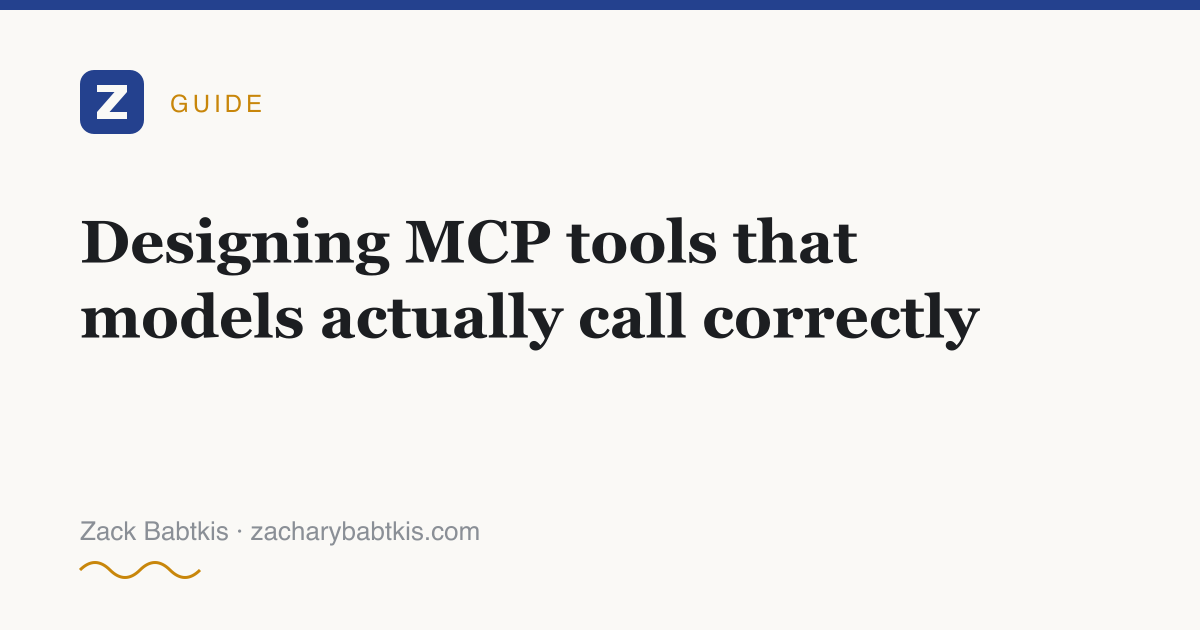
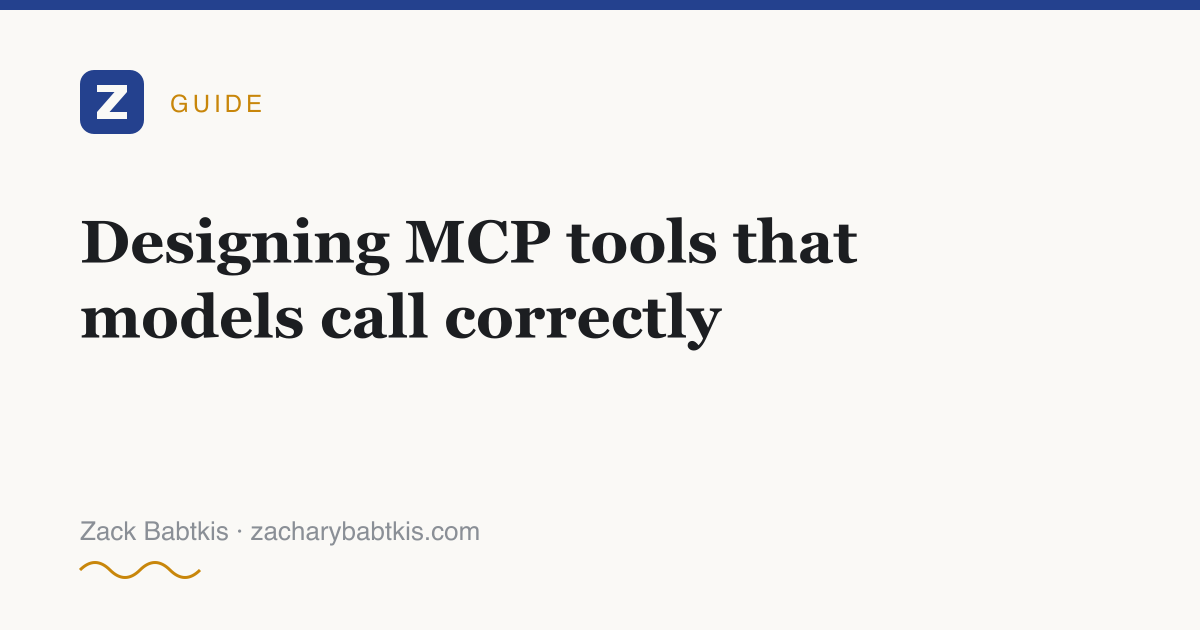
feat: mcp stateless migration guide + error-string seo pass on tier-1 articles

Changed region(s): [[0.2467, 0.4524, 0.8325, 0.573]]

diff --git a/app/mcp-development/mcp-stateless-migration/page.tsx b/app/mcp-development/mcp-stateless-migration/page.tsx
@@ -1,0 +1,171 @@
+import type { Metadata } from 'next';
+import { ArticleLayout } from '@/components/article';
+
+export const metadata: Metadata = {
+  title: 'MCP Went Stateless: Migrating a Session-Era Server to the 2026-07-28 Spec',
+  description:
+    'The MCP 2026-07-28 spec removes the Mcp-Session-Id header, the protocol session, and the initialize handshake. How to migrate a session-era MCP server to the stateless model: the handle pattern, elicitation changes, and what order to do it in.',
+};
+
+export default function McpStatelessMigrationPage() {
+  return (
+    <ArticleLayout
+      title="MCP went stateless. Here's how to migrate a session-era server."
+      description="What the 2026-07-28 spec removes, what actually breaks, and a working order for moving session state into handles your clients pass back."
+      datePublished="2026-07-28"
+      slug="/mcp-development/mcp-stateless-migration/"
+      byline="I built and shipped MCP servers and agent tooling at ZeroClick"
+      faq={[
+        {
+          question: 'Do I have to migrate my MCP server right away?',
+          answer:
+            'No. Every client deployed today speaks the 2025 spec versions, and they will for months. The official SDKs are shipping support for both models, so the realistic plan is to add the stateless path alongside the session path and watch your traffic. The moment to delete the session code is when your logs show old-version clients gone, and that date is set by your clients, not by the spec.',
+        },
+        {
+          question: 'What replaces the Mcp-Session-Id header?',
+          answer:
+            'Nothing at the protocol level, and that is the point. State the server used to look up by session ID now travels in the payload: tools return a handle (a project ID, a job token, whatever names the thing you were tracking), the client keeps it, and the model passes it back as an argument on later calls. Protocol metadata that used to be established in the initialize handshake rides in _meta on every request instead.',
+        },
+        {
+          question: 'Does the 2026-07-28 spec fix the load-balancer problem?',
+          answer:
+            'Yes. That problem existed because a follow-up request had to reach the exact replica holding the session. With no protocol session, any request can land on any replica, and the new Mcp-Method and Mcp-Name headers exist so a gateway can route on them without inspecting bodies. Sticky sessions, shared session stores, and affinity cookies stop being requirements and go back to being choices.',
+        },
+        {
+          question: 'How does elicitation work without an open stream?',
+          answer:
+            'The server returns an input-required result instead of pushing a request down a stream. The client collects the answers and re-issues the original call with the answers and the echoed request state attached, so any replica can pick up the resume. If you built elicitation as suspend-over-a-store, your design just became the protocol’s design, and the migration is mostly renaming.',
+        },
+      ]}
+      ctaTitle="Running a session-era MCP server that needs to cross this bridge?"
+      ctaBody="I audit MCP servers and plan migrations: what your sessions actually hold, which tools need handles, what your elicitation flows become, and what infrastructure you get to delete. Fixed price, $2,000, one week, credited toward any follow-on work."
+      ctaEmailSubject="MCP server audit: stateless migration"
+      ctaSource="mcp-migration-article"
+    >
+      <p>
+        The MCP spec dated 2026-07-28 is final, and it removes the thing
+        most production server headaches grew from: the protocol session.
+        The <code>Mcp-Session-Id</code> header is gone. The{' '}
+        <code>initialize</code> handshake is gone. Protocol metadata now
+        travels in <code>_meta</code> on every request, and two new
+        headers, <code>Mcp-Method</code> and <code>Mcp-Name</code>, let a
+        load balancer route requests without reading bodies. Any request
+        can land on any replica. If you have ever debugged
+        session-not-found errors behind a load balancer, you can guess how
+        I feel about this change.
+      </p>
+      <p>
+        I ran session-era MCP servers in production at ZeroClick, and I
+        wrote about{' '}
+        <a href="/mcp-development/stateful-mcp-servers/">
+          what sessions cost you in production
+        </a>{' '}
+        before this spec landed. The short version: the protocol adopted
+        the conclusion. This article is about the part the release notes
+        don&rsquo;t cover, which is how you actually get a session-era
+        server from here to there.
+      </p>
+
+      <h2>First, nothing is on fire</h2>
+      <p>
+        Every client in the wild today speaks the 2025 spec versions, and
+        the official SDKs are shipping support for both models. Your
+        session-era server keeps working. The migration pressure is real
+        but it is measured in months, so treat this like any other
+        protocol transition: add the new path, keep the old one, and let
+        your traffic tell you when the old one is dead.
+      </p>
+
+      <h2>Inventory what your sessions actually hold</h2>
+      <p>
+        Say you are staring at a server with a session map and wondering
+        how big this job is. The size of the migration is exactly the
+        size of this list, so write it down: for each thing keyed by
+        session ID, what is it? In the servers I have built and audited,
+        it comes down to three categories. Routing state, meaning the open
+        stream a follow-up request needs to find. Per-client working
+        state, meaning the account, project, or job a sequence of tool
+        calls operates on. And in-flight questions, meaning elicitation
+        waiting on a human. Each category migrates differently, and the
+        first one migrates by deletion.
+      </p>
+
+      <h2>Routing state: delete it</h2>
+      <p>
+        The open-stream bookkeeping, the transport map, the sticky
+        sessions at the load balancer, the affinity cookie with the
+        carefully tuned TTL: all of that existed to reunite a request
+        with a process. The new model makes the reunion unnecessary.
+        When your stateless path is carrying the traffic, you get to
+        remove infrastructure, and your balancer goes back to plain
+        round-robin. This is the rare migration where the after state has
+        fewer moving parts than the before state!
+      </p>
+
+      <h2>Working state: move it into handles</h2>
+      <p>
+        The session was an implicit argument to every tool call. The
+        migration makes it explicit. A tool that used to stash a project
+        in the session now returns a handle, something like a project ID
+        or a job token, and the model passes it back on the next call.
+        You already trust the client to carry the conversation; now it
+        carries the state too.
+      </p>
+      <p>
+        Two things earn attention here. First, handles cross a trust
+        boundary, so treat them the way you treat any client-supplied
+        identifier: validate ownership on every call, because
+        &ldquo;knows the handle&rdquo; is not &ldquo;owns the
+        resource.&rdquo; Second, design the handle around the resource
+        rather than the conversation. A project ID keeps meaning
+        something next week. A serialized blob of conversation state does
+        not, and it invites clients to depend on its internals.
+      </p>
+
+      <h2>Elicitation: you may already be done</h2>
+      <p>
+        Mid-call questions were the strongest reason servers held open
+        streams. The new spec restructures them: the server returns an
+        input-required result, and the client re-issues the call with the
+        answers and the echoed request state attached. Any replica can
+        pick up the resume. If you built elicitation as a coroutine
+        suspended over an external store, the pattern I described in{' '}
+        <a href="/mcp-development/mcp-elicitation/">
+          the elicitation article
+        </a>
+        , the protocol just standardized your architecture, and your
+        migration is mostly moving the store key from session ID to
+        request state. If your elicitation depends on the open stream
+        itself, this is the part of the migration to prototype first,
+        because it changes the shape of your tool code rather than just
+        its plumbing.
+      </p>
+
+      <h2>The order I would do it in</h2>
+      <ol>
+        <li>
+          Update the SDK and get the new headers and{' '}
+          <code>_meta</code> handling in place while the session path
+          still carries traffic.
+        </li>
+        <li>
+          Convert working state to handles one tool family at a time,
+          starting with the tools that already return a natural resource
+          ID.
+        </li>
+        <li>Restructure elicitation to the return-and-reissue shape.</li>
+        <li>
+          Watch traffic until old-version clients are gone, then delete
+          the session map, the affinity config, and the TTL sweeps.
+        </li>
+      </ol>
+      <p>
+        Notice what the order optimizes for: every step leaves the server
+        deployable, and the deletions come last, after the logs prove
+        nothing needs what you are deleting. In short, the spec finally
+        agrees with your load balancer. The migration is the last
+        session-shaped problem you have to solve.
+      </p>
+    </ArticleLayout>
+  );
+}

diff --git a/app/safari-extensions/converter-not-working/page.tsx b/app/safari-extensions/converter-not-working/page.tsx
@@ -4,7 +4,7 @@ import { ArticleLayout } from '@/components/article';
 export const metadata: Metadata = {
   title: 'safari-web-extension-converter Ran Fine. So Why Is the Extension Broken?',
   description:
-    'The Safari extension converter produces projects that compile but don’t work. The six most common causes: silently missing APIs, background lifecycle, manifest keys Safari ignores, storage differences, signing, and iOS quirks.',
+    'safari-web-extension-converter ran but the converted extension is not working? The six most common causes: silently missing APIs, background lifecycle, manifest keys Safari ignores, storage differences, signing, and iOS quirks.',
 };
 
 export default function ConverterNotWorkingPage() {
@@ -13,7 +13,28 @@ export default function ConverterNotWorkingPage() {
       title="The converter ran fine. So why is your Safari extension broken?"
       description="Six reasons a converted Chrome extension compiles but doesn't work in Safari, and how to diagnose each."
       datePublished="2026-07-24"
+      dateModified="2026-07-28"
       slug="/safari-extensions/converter-not-working/"
+      faq={[
+        {
+          question:
+            'Why does my converted Safari extension not work when the converter ran fine?',
+          answer:
+            'Because safari-web-extension-converter copies your files without checking whether the APIs you call exist in Safari. The usual causes, in the order I find them: an API that silently doesn’t exist in Safari, background lifecycle differences, manifest keys Safari ignores, storage behavior differences, signing problems, and iOS-specific quirks. The project compiling tells you nothing about whether the extension works.',
+        },
+        {
+          question:
+            'How do I debug a converted Safari extension that isn’t working?',
+          answer:
+            'Turn on Safari’s Develop menu, allow unsigned extensions if you built without signing, and use Web Inspector to open the background context and popup consoles directly. Those consoles are hidden until the Develop menu is on, which is why converted extensions feel undebuggable. One useful trick: if behavior improves while the inspector is open, you’ve found a background-lifecycle bug, because the inspector keeps the script alive.',
+        },
+        {
+          question:
+            'Why does my extension work in Chrome but not in Safari?',
+          answer:
+            'Some Chrome APIs don’t exist in Safari, and calling them fails silently rather than throwing. Blocking webRequest, several permission surfaces, and page overrides are the common ones. Check every chrome.* call your extension makes against Safari’s support before assuming the port is broken. Half of my port assessments come down to a list of exactly these calls.',
+        },
+      ]}
       ctaTitle="Stuck on a converted extension that won't behave?"
       ctaBody="Send me your extension's store link or repo. The port assessment catalogs what's broken and what it'll take to fix. It takes one week at a fixed price, and the fee credits toward the port."
       ctaEmailSubject="Safari Port Assessment: converter issues"

diff --git a/app/mcp-development/stateful-mcp-servers/page.tsx b/app/mcp-development/stateful-mcp-servers/page.tsx
@@ -87,10 +87,10 @@ export default function StatefulMcpServersPage() {
         With one replica, every request lands on the process holding the
         session, so everything&rsquo;s good. With two, a round-robin load
         balancer sends roughly half of your follow-up requests to a
-        replica that has never heard of the session. The request fails,
-        the client retries, maybe initializes a new session, and your
-        logs fill with session-not-found errors that correlate with
-        nothing.
+        replica that has never heard of the session. The request fails
+        with a 404 &ldquo;session not found&rdquo; error, the client
+        retries, maybe initializes a new session, and your logs fill
+        with session-not-found errors that correlate with nothing.
       </p>
       <p>
         The sharpest version of this involves elicitation, the MCP

diff --git a/lib/guides.ts b/lib/guides.ts
@@ -62,7 +62,14 @@ export const GUIDES: Guide[] = [
     slug: '/mcp-development/stateful-mcp-servers/',
     title: "Your MCP server is stateful. Your load balancer doesn't know that.",
     blurb:
-      'Sticky sessions, SSE timeouts, and the in-memory session map that leaks in production.',
+      'Sessions, sticky routing, proxy timeouts, and what breaks at two replicas.',
+    topic: 'mcp-development',
+  },
+  {
+    slug: '/mcp-development/mcp-stateless-migration/',
+    title: "MCP went stateless. Here's how to migrate a session-era server.",
+    blurb:
+      'The 2026-07-28 spec removes sessions. The handle pattern, elicitation changes, and the order to migrate in.',
     topic: 'mcp-development',
   },
   {

diff --git a/app/safari-extensions/app-store-rejection/page.tsx b/app/safari-extensions/app-store-rejection/page.tsx
@@ -29,7 +29,9 @@ export default function AppStoreRejectionPage() {
 
       <h2>&ldquo;Your app provides minimal functionality&rdquo;</h2>
       <p>
-        You may be wondering why Apple cares about an app whose whole job
+        This one arrives citing Guideline 4.2 (Design: Minimum
+        Functionality), sometimes 4.2.2. You may be wondering why Apple
+        cares about an app whose whole job
         is carrying an extension. It cares. The containing app can&rsquo;t
         be an empty shell. It doesn&rsquo;t need features, just a purpose:
         explain what the extension does, show whether it&rsquo;s enabled,
